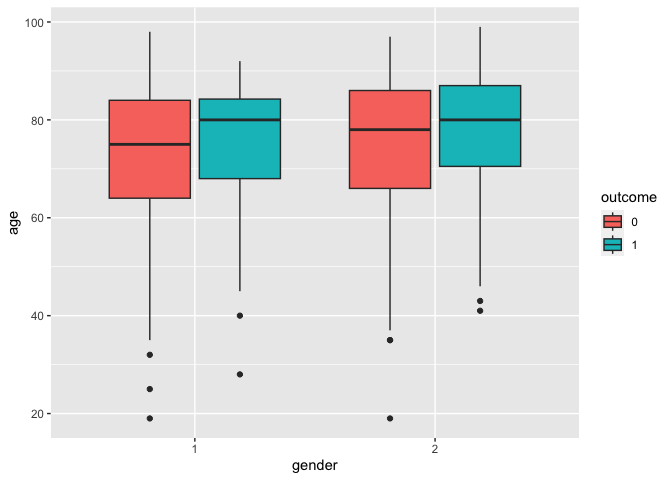
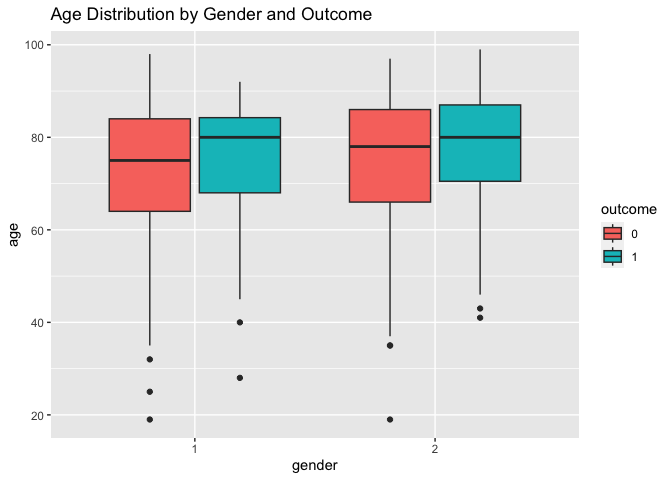
add some comments for the plot

diff --git a/EDA_Candice.md b/EDA_Candice.md
@@ -181,11 +181,19 @@ ggplot(mortality_data %>% drop_na(bmi), aes(x = bmi)) +
 ``` r
 # Bivariate Analysis
 ggplot(mortality_data, aes(x = gender, y = age, fill = outcome)) +
-  geom_boxplot()
+  geom_boxplot() +
+  ggtitle("Age Distribution by Gender and Outcome")
 ```
 
-![](EDA_Candice_files/figure-gfm/unnamed-chunk-6-1.png)<!-- --> \#
-Exploring Outcomes
+![](EDA_Candice_files/figure-gfm/unnamed-chunk-6-1.png)<!-- -->
+
+**Age Distribution by Gender and Outcome:** The boxplots show the age
+distribution for different genders and outcomes. We see that for both
+genders, the age distribution for patients who did not survive
+(outcome 1) is slightly higher. This could indicate that older age is a
+risk factor for mortality in this patient group.
+
+# Exploring Outcomes
 
 ``` r
 # Age distribution by Outcome
@@ -227,3 +235,34 @@ ggplot(mortality_data, aes(x = heart_rate, fill = as.factor(outcome))) +
     ## Warning: Removed 12 rows containing non-finite values (`stat_density()`).
 
 ![](EDA_Candice_files/figure-gfm/unnamed-chunk-7-4.png)<!-- -->
+
+**Age Distribution by Outcome:**
+
+The histogram shows the age distribution for the two outcomes. We
+observe that the majority of patients are between 60 and 80 years old.
+There is a noticeable overlap in the age distribution of patients who
+survived and those who did not, suggesting that while age may be a
+factor, it’s not the sole determinant of mortality.
+
+**Blood Pressure by Outcome:**
+
+This scatterplot shows systolic vs. diastolic blood pressure colored by
+outcome. The points are widely spread, indicating variability in blood
+pressure readings across the patient population. There doesn’t seem to
+be a clear separation between the two outcomes based on blood pressure
+alone.
+
+**BMI by Gender and Outcome:**
+
+It shows a wide range of BMI values for both genders, with no clear
+pattern indicating that BMI is distinctly associated with the outcome.
+However, there are more data points for BMI for outcome 0, which may
+suggest a higher survival rate for patients with a lower BMI, although
+further statistical analysis is needed.
+
+**Heart Rate Distribution by Outcome:**
+
+The density plot for heart rate shows that the distribution of heart
+rates for patients who did not survive is slightly shifted towards the
+higher end compared to those who survived. This could suggest that a
+higher heart rate is associated with a higher risk of mortality.
